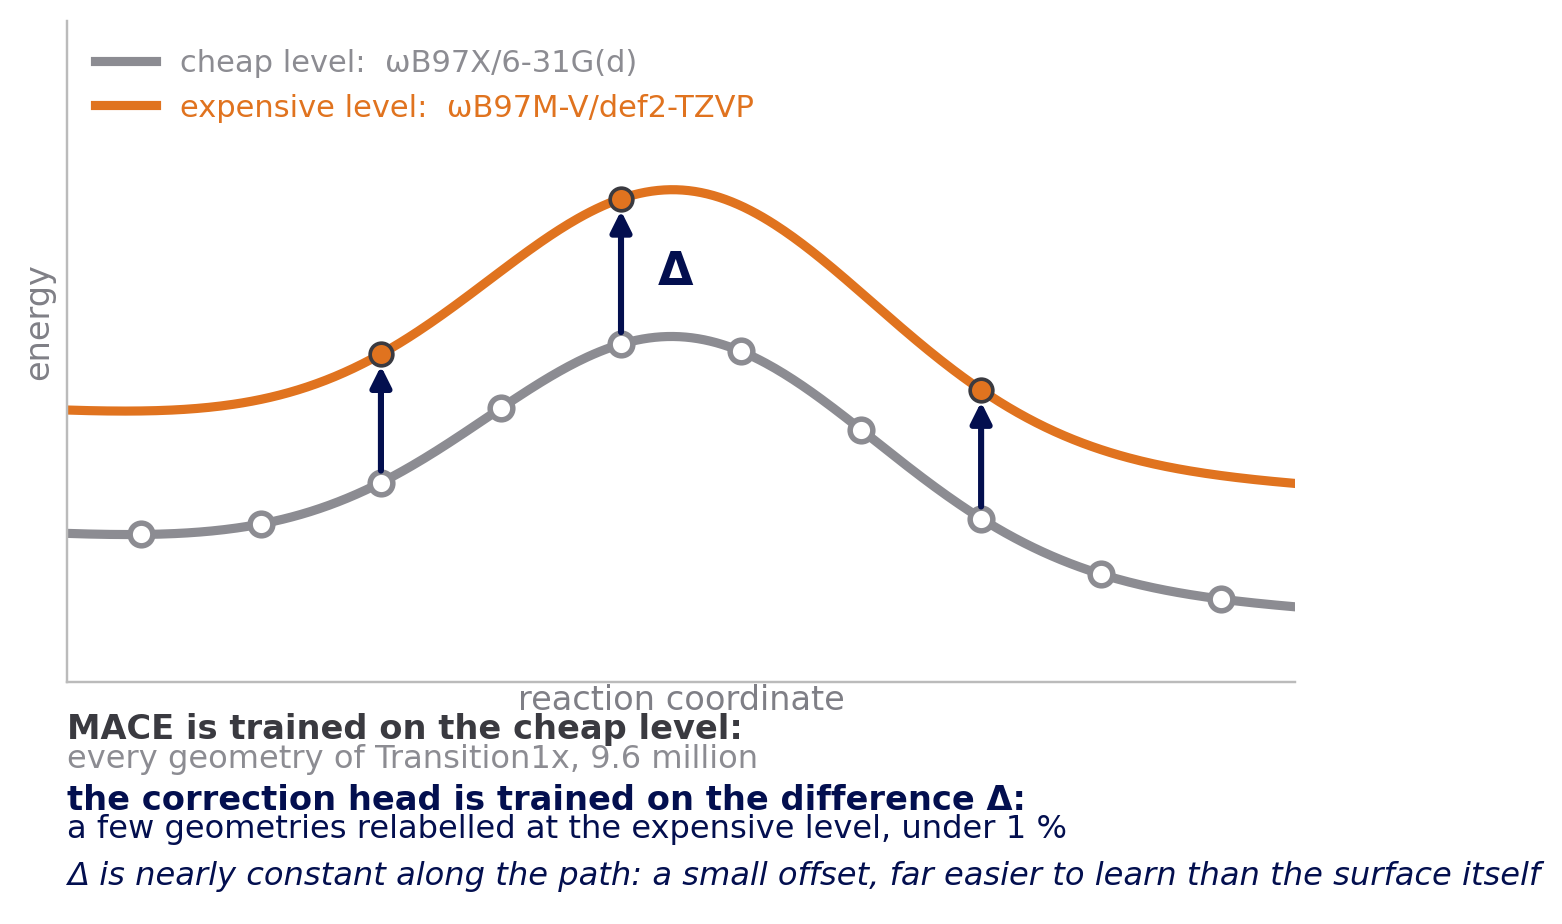
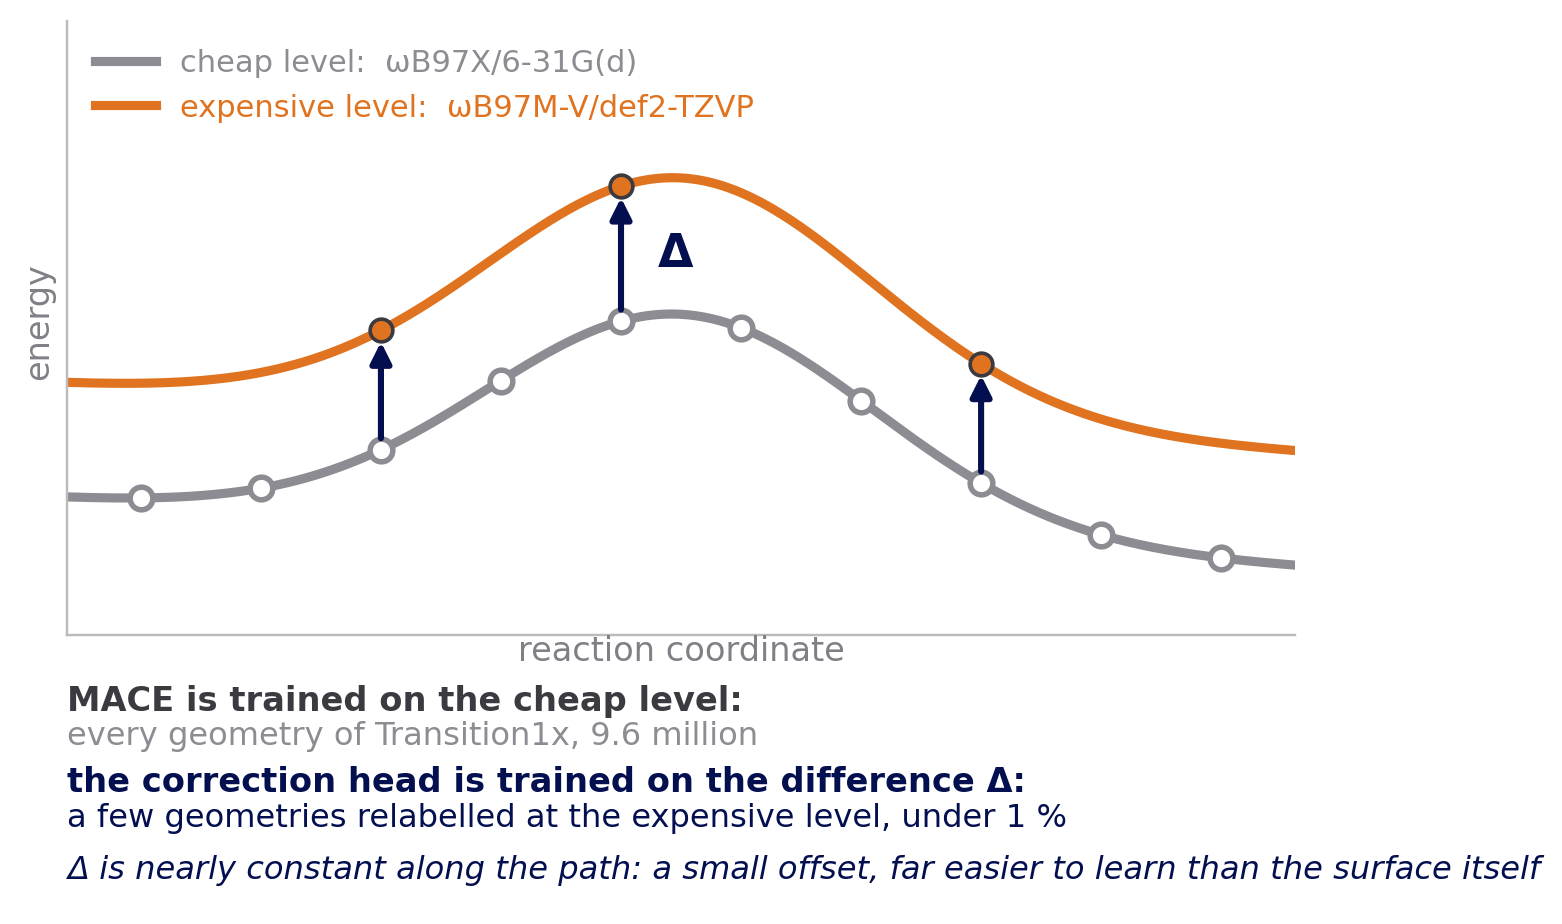
Defence talk: delta targets picture, text spacing

Changed region(s): [[0.0307, 0.6667, 0.9834, 0.9697], [0.0307, 0.1818, 0.8297, 0.6667]]

diff --git a/docs/defence/draw_delta_targets.py b/docs/defence/draw_delta_targets.py
@@ -28,12 +28,12 @@ for k in (2, 4, 7):
     ax.scatter([xk], [y1], s=55, color=NEW, edgecolor=DARK, lw=1.2, zorder=6)
 ax.text(xs[4] + 0.03, 0.5 * (np.interp(xs[4], x, cheap) + np.interp(xs[4], x, expensive)), chr(916), fontsize=15, color=NAVY, fontweight="bold", va="center")
 # labels, below the plot
-ax.text(0.0, -0.66, "MACE is trained on the cheap level:", fontsize=11, color=DARK, fontweight="bold", va="center", transform=ax.transData)
-ax.text(0.0, -0.76, "every geometry of Transition1x, 9.6 million", fontsize=10.5, color=GREY, va="center")
-ax.text(0.0, -0.90, "the correction head is trained on the difference " + chr(916) + ":", fontsize=11, color=NAVY, fontweight="bold", va="center")
-ax.text(0.0, -1.00, "a few geometries relabelled at the expensive level, under 1 %", fontsize=10.5, color=NAVY, va="center")
-ax.text(0.0, -1.16, chr(916) + " is nearly constant along the path: a small offset, far easier to learn than the surface itself", fontsize=10.5, color=NAVY, va="center", style="italic")
-ax.set_xlim(0, 1); ax.set_ylim(-1.25, 1.75)
+ax.text(0.0, -0.74, "MACE is trained on the cheap level:", fontsize=11, color=DARK, fontweight="bold", va="center", transform=ax.transData)
+ax.text(0.0, -0.87, "every geometry of Transition1x, 9.6 million", fontsize=10.5, color=GREY, va="center")
+ax.text(0.0, -1.04, "the correction head is trained on the difference " + chr(916) + ":", fontsize=11, color=NAVY, fontweight="bold", va="center")
+ax.text(0.0, -1.17, "a few geometries relabelled at the expensive level, under 1 %", fontsize=10.5, color=NAVY, va="center")
+ax.text(0.0, -1.36, chr(916) + " is nearly constant along the path: a small offset, far easier to learn than the surface itself", fontsize=10.5, color=NAVY, va="center", style="italic")
+ax.set_xlim(0, 1); ax.set_ylim(-1.48, 1.75)
 ax.set_xticks([]); ax.set_yticks([])
 ax.text(0.5, -0.56, "reaction coordinate", fontsize=11, color=MID, ha="center", va="center"); ax.set_ylabel("energy", fontsize=11, color=MID, y=0.66)
 for sp in ("top", "right"):
